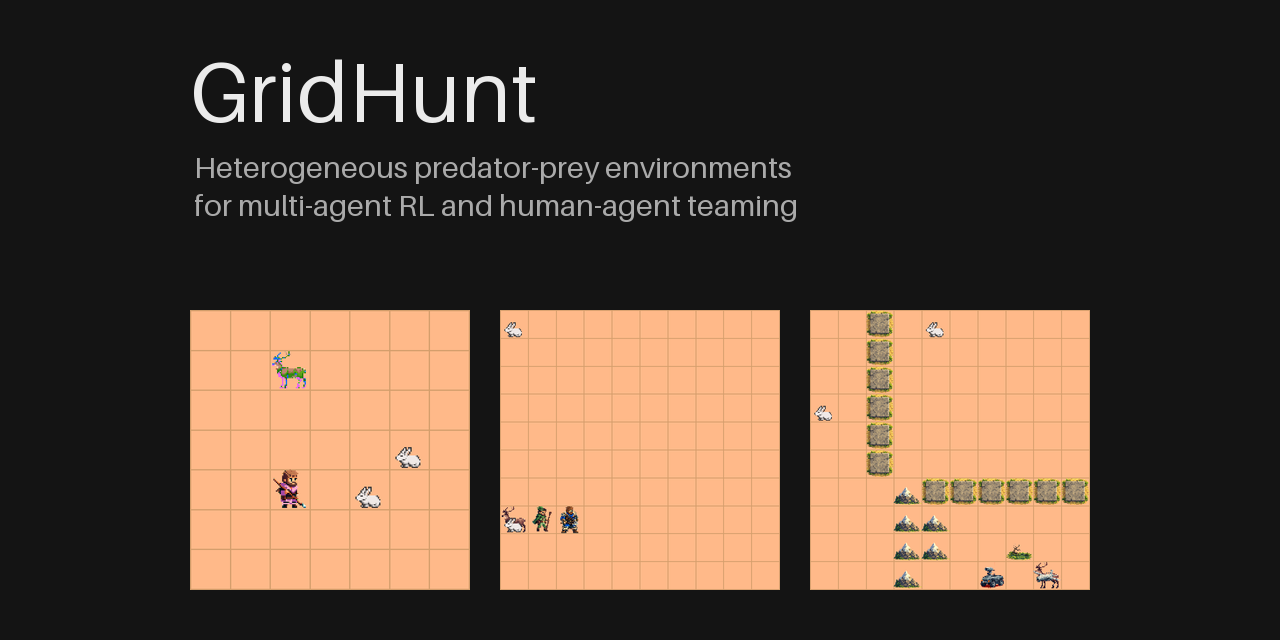
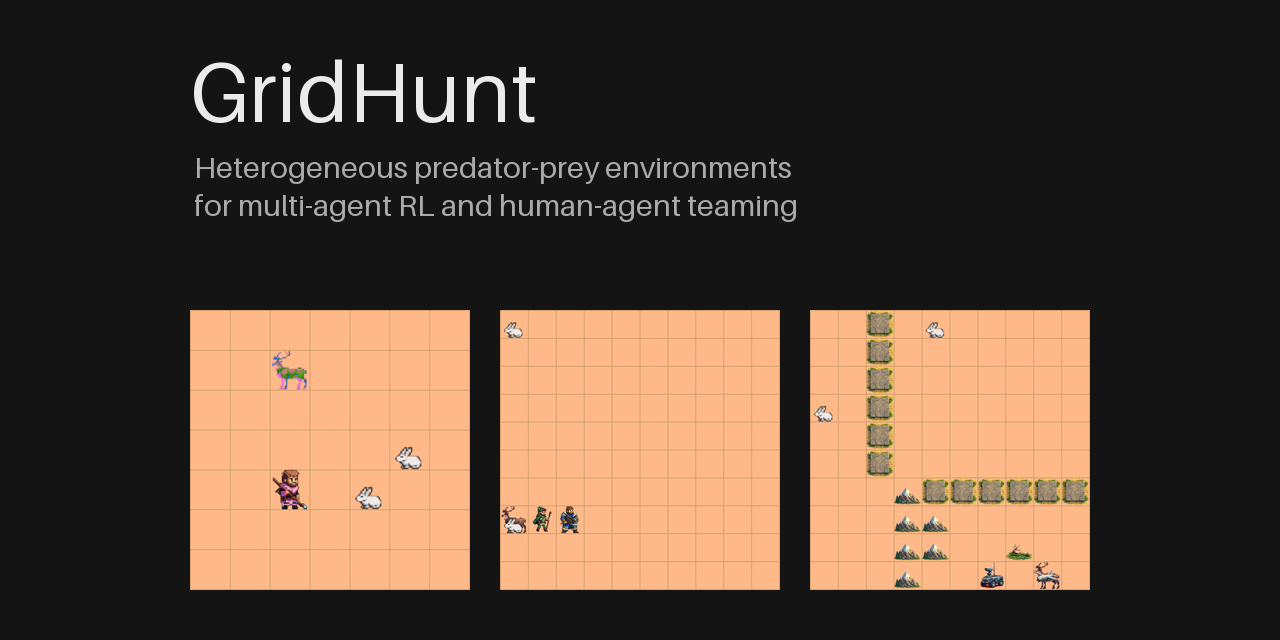
Render boards at a consistent size with even margins and grid lines

diff --git a/src/gridhunt/rendering.py b/src/gridhunt/rendering.py
@@ -36,15 +36,19 @@ class Renderer:
     EDGE_PADDING = 10
     ROW_SPACING = 10
     DROPDOWN_DEFAULT_WIDTH = 100
-    TILE_SIZE = 32
+    TILE_SIZE = 32  # replaced per environment by the cell size that fits BOARD_SIZE
+    BOARD_SIZE = 640  # target board width and height in pixels
+    MIN_TILE_SIZE = 12
+    MARGIN = 16  # space around the board, the same on every side
+    GRID_LINE_WIDTH = 2
     GAMEBOARD_COLOR = (255, 185, 137)
     BACKGROUND_COLOR = (20, 20, 20)
     CLEAR = (0, 0, 0, 0)
     GRID_LINE_COLOR = (200, 150, 100, 200)
     SCREEN_SIZE = (750, 750)
 
-    # Grid rendering
-    GRID_BOUNDARY_BUFFER = 1
+    # Grid rendering: room for the right and bottom border lines
+    GRID_BOUNDARY_BUFFER = GRID_LINE_WIDTH
 
     def __init__(self, env, gui_config: dict | None = None) -> None:
         """Initialize renderer state."""
@@ -82,7 +86,7 @@ class Renderer:
         info_text_lines = max(1, int(self.gui_config.get("info_text_lines", 1)))
 
         layout = {
-            "required_width": self.SCREEN_SIZE[0],
+            "required_width": self._min_width,
             "text_vertical_space": self.TEXT_PADDING
             + self._text_height * info_text_lines
             + self.TEXT_PADDING,
@@ -112,9 +116,7 @@ class Renderer:
                 rect = pygame.Rect(dd_conf["rect"])
                 x_offset = max(x_offset, rect.right + self.EDGE_PADDING)
 
-        layout["required_width"] = max(
-            self.SCREEN_SIZE[0], x_offset + self.EDGE_PADDING
-        )
+        layout["required_width"] = max(self._min_width, x_offset + self.EDGE_PADDING)
 
         # Calculate info bar height
         buttons = self.gui_config.get("buttons", [])
@@ -147,15 +149,17 @@ class Renderer:
         pygame.init()
         os.environ["SDL_VIDEO_WINDOW_POS"] = "0,0"
 
-        # Calculate game surface dimensions on grid
+        # Every board is drawn at one cell size chosen to fill about BOARD_SIZE pixels, so boards,
+        # margins and grid lines look the same whatever the grid size
+        self.TILE_SIZE = max(self.MIN_TILE_SIZE, self.BOARD_SIZE // max(self.env.grid_size))
+        self._scale = 1
         self._game_surface_size = (
             self.env.grid_size[0] * self.TILE_SIZE,
             self.env.grid_size[1] * self.TILE_SIZE,
         )
-
-        # Calculate scale factor to fit screen width
-        scale_x = self.SCREEN_SIZE[0] // self._game_surface_size[0]
-        self._scale = max(1, scale_x)
+        board_width = self._game_surface_size[0] + self.GRID_BOUNDARY_BUFFER
+        board_height = self._game_surface_size[1] + self.GRID_BOUNDARY_BUFFER
+        self._min_width = board_width + 2 * self.MARGIN
 
         # Initialize font and measure text height
         if self.info_bar:
@@ -168,23 +172,14 @@ class Renderer:
         else:
             self._text_height = 0
             self._info_bar_height = 0
-            required_width = self.SCREEN_SIZE[0]
+            required_width = self._min_width
 
-        # Calculate final screen size using the full available space
-        scaled_game_board_height = self._game_surface_size[1] * self._scale
-
-        # Center game board horizontally and vertically (same offset for uniform padding)
-        scaled_game_board_width = self._game_surface_size[0] * self._scale
-        self._board_x_offset = (required_width - scaled_game_board_width) // 2
-        self._board_y_offset = self._board_x_offset
-
-        self._screen_size = (
-            required_width,
-            self._board_y_offset + scaled_game_board_height + self._info_bar_height,
-        )
-
-        # Position info bar immediately after game board
-        self._info_bar_y = self._board_y_offset + scaled_game_board_height
+        # The board is centred horizontally (buttons can make the window wider) with an equal
+        # margin above and below it; the info bar sits under the bottom margin
+        self._board_x_offset = (required_width - board_width) // 2
+        self._board_y_offset = self.MARGIN
+        self._info_bar_y = self.MARGIN + board_height + self.MARGIN
+        self._screen_size = (required_width, self._info_bar_y + self._info_bar_height)
 
         # Create display and clock
         self._screen = pygame.display.set_mode(self._screen_size, pygame.HIDDEN if hidden else 0)
@@ -205,14 +200,15 @@ class Renderer:
         self._grid_layer = pygame.Surface(padded_grid_size).convert_alpha()
         self._grid_layer.fill(self.CLEAR)
 
-        # Dynamic entity layer for prey, predators, and obstacles
+        # Terrain (under the grid lines) and entities, prey and predators (over them)
+        self._terrain_layer = pygame.Surface(self._game_surface_size).convert_alpha()
         self._entity_layer = pygame.Surface(self._game_surface_size).convert_alpha()
         self._entity_layer.fill(self.CLEAR)
 
         # Info bar background
         if self.info_bar:
             self._info_layer = pygame.Surface(
-                (self._game_surface_size[0], self._info_bar_height)
+                (self._screen_size[0], self._info_bar_height)
             ).convert()
             self._info_layer.fill(self.BACKGROUND_COLOR)
 
@@ -337,22 +333,8 @@ class Renderer:
         """
         Draw the scaled game board, centered, and the optional info bar onto the screen surface.
         """
-        # Build complete game board with all layers
-        game_board = self._build_game_board()
-
-        # Scale game board ONLY (info bar stays unscaled)
-        # Might be worth trying smoothscale() instead of scale for larger grids
-        scaled_board = pygame.transform.scale(
-            game_board,
-            (
-                int(self._game_surface_size[0] * self._scale),
-                int(self._game_surface_size[1] * self._scale),
-            ),
-        )
-
-        # Clear screen and draw scaled game board CENTERED horizontally and same offset to top for uniformity
         self._screen.fill(self.BACKGROUND_COLOR)
-        self._screen.blit(scaled_board, (self._board_x_offset, self._board_y_offset))
+        self._screen.blit(self._build_game_board(), (self._board_x_offset, self._board_y_offset))
 
         # Render info bar and UI if enabled
         if self.info_bar:
@@ -414,17 +396,17 @@ class Renderer:
 
     def _build_game_board(self) -> pygame.Surface:
         """
-        Compose the complete game board from background, grid, and entity layers.
-
-        Returns the layered board ready for scaling and display. Grid lines are
-        rendered on a slightly padded surface to accommodate boundary lines.
+        Compose the board from its layers: background, terrain, grid lines, then entities, prey
+        and predators. The board is GRID_LINE_WIDTH pixels larger than the cells so the right and
+        bottom border lines fit.
 
         Returns:
             pygame.Surface: The composed game board with all layers rendered
         """
         self._entity_layer.fill(self.CLEAR)
+        self._terrain_layer.fill(self.CLEAR)
 
-        # Draw terrain (background layer, drawn first)
+        # Terrain goes under the grid lines
         if hasattr(self.env, "terrain") and self.env.terrain:
             for terrain_entity in self.env.terrain.values():
                 sprite = self._get_cached_sprite(terrain_entity.render_sprite)
@@ -432,7 +414,7 @@ class Renderer:
                     terrain_entity.position[0] * self.TILE_SIZE,
                     terrain_entity.position[1] * self.TILE_SIZE,
                 )
-                self._entity_layer.blit(sprite, pos)
+                self._terrain_layer.blit(sprite, pos)
 
         # Draw static obstacles/background entities
         if self.env.entities is not None:
@@ -462,7 +444,7 @@ class Renderer:
             )
             self._entity_layer.blit(sprite, pos)
 
-        # Layer composition: background + grid (with boundary buffer) + entities + vision mask
+        # Layer composition: background, terrain, grid lines, entities, vision mask
         padded_size = (
             self._game_surface_size[0] + self.GRID_BOUNDARY_BUFFER,
             self._game_surface_size[1] + self.GRID_BOUNDARY_BUFFER,
@@ -470,6 +452,7 @@ class Renderer:
         board = pygame.Surface(padded_size).convert()
         board.fill(self.GAMEBOARD_COLOR)
         board.blit(self._game_surface, (0, 0))
+        board.blit(self._terrain_layer, (0, 0))
         board.blit(self._grid_layer, (0, 0))
         board.blit(self._entity_layer, (0, 0))
 
@@ -570,9 +553,7 @@ class Renderer:
                 sprite = self._load_image(path_str)
                 # Ensure sprite fits within a single grid cell
                 if sprite.get_size() != (self.TILE_SIZE, self.TILE_SIZE):
-                    sprite = pygame.transform.scale(
-                        sprite, (self.TILE_SIZE, self.TILE_SIZE)
-                    )
+                    sprite = pygame.transform.smoothscale(sprite, (self.TILE_SIZE, self.TILE_SIZE))
                 self._sprite_cache[path_str] = sprite
             except (FileNotFoundError, pygame.error, OSError) as e:
                 # Fallback: return blank surface instead of crashing
@@ -617,37 +598,15 @@ class Renderer:
         pygame.quit()
 
     def _draw_grid(self) -> None:
-        """
-        Draw grid lines on the static grid layer.
-
-        Grid lines are drawn once during initialization and scaled based on the
-        zoom level to remain visible at all scales. Line width is proportional
-        to the scale factor to maintain visual consistency.
-        """
+        """Draw the grid lines, including the outer border, once on the static grid layer."""
         w, h = self.env.grid_size
-
-        # Scale line width with zoom (thicker at higher zooms, minimum 1px)
-        line_width = max(1, int(self._scale * 0.25))
-
-        # Draw vertical lines
-        for x in range(0, (w + 1) * self.TILE_SIZE, self.TILE_SIZE):
-            pygame.draw.line(
-                self._grid_layer,
-                self.GRID_LINE_COLOR,
-                (x, 0),
-                (x, h * self.TILE_SIZE),
-                line_width,
-            )
-
-        # Draw horizontal lines
-        for y in range(0, (h + 1) * self.TILE_SIZE, self.TILE_SIZE):
-            pygame.draw.line(
-                self._grid_layer,
-                self.GRID_LINE_COLOR,
-                (0, y),
-                (w * self.TILE_SIZE, y),
-                line_width,
-            )
+        width = self.GRID_LINE_WIDTH
+        for x in range(w + 1):
+            self._grid_layer.fill(self.GRID_LINE_COLOR, pygame.Rect(x * self.TILE_SIZE, 0, width,
+                                                                   h * self.TILE_SIZE + width))
+        for y in range(h + 1):
+            self._grid_layer.fill(self.GRID_LINE_COLOR, pygame.Rect(0, y * self.TILE_SIZE,
+                                                                   w * self.TILE_SIZE + width, width))
 
     def _load_image(self, path: str, clean_image: bool = False) -> pygame.Surface:
         """

diff --git a/docs/scripts/animation.py b/docs/scripts/animation.py
@@ -33,6 +33,17 @@ def frames(env_id, steps=48, seed=3, crop=False):
     return [Image.fromarray(image) for image in images]
 
 
+def shared_palette(images, colors=128):
+    """Quantize frames to one palette without dithering: small files and steady colours."""
+    samples = images[:: max(1, len(images) // 4)][:4]
+    width, height = images[0].size
+    sample = Image.new("RGB", (width, height * len(samples)))
+    for row, image in enumerate(samples):
+        sample.paste(image.convert("RGB"), (0, row * height))
+    palette = sample.quantize(colors=colors, method=Image.Quantize.MEDIANCUT)
+    return [image.convert("RGB").quantize(palette=palette, dither=Image.Dither.NONE) for image in images]
+
+
 def gif_bytes(images, duration=180):
     buffer = io.BytesIO()
     images[0].save(buffer, format="GIF", save_all=True, append_images=images[1:], duration=duration, loop=0,
@@ -41,7 +52,7 @@ def gif_bytes(images, duration=180):
 
 
 def scenario_gif(env_id, steps=48, width=360):
-    """An animation of one scenario, scaled to ``width`` pixels."""
+    """An animation of one scenario, scaled smoothly to ``width`` pixels."""
     images = frames(env_id, steps)
-    scaled = [im.resize((width, int(im.height * width / im.width)), Image.NEAREST) for im in images]
-    return gif_bytes(scaled)
+    scaled = [im.resize((width, int(im.height * width / im.width)), Image.LANCZOS) for im in images]
+    return gif_bytes(shared_palette(scaled))

diff --git a/docs/scripts/make_banner.py b/docs/scripts/make_banner.py
@@ -13,7 +13,7 @@ from PIL import Image, ImageDraw, ImageFont
 
 sys.path.insert(0, str(Path(__file__).resolve().parent))
 
-from animation import frames, gif_bytes  # noqa: E402
+from animation import frames, gif_bytes, shared_palette  # noqa: E402
 
 ASSETS = Path(__file__).resolve().parents[1] / "assets"
 BACKGROUND = (20, 20, 20)
@@ -43,12 +43,7 @@ def montage(tile=200, gap=12, label_height=28, steps=40):
             text_width = draw.textlength(title, font=font)
             draw.text((x + (tile - text_width) / 2, gap + tile + 6), title, fill=MUTED, font=font)
         out.append(canvas)
-    # One palette for every frame, without dithering, keeps the file small and the colours steady
-    sample = Image.new("RGB", (width, height * 4))
-    for row, step in enumerate(range(0, steps, max(1, steps // 4))[:4]):
-        sample.paste(out[step], (0, row * height))
-    palette = sample.quantize(colors=128, method=Image.Quantize.MEDIANCUT)
-    return [frame.quantize(palette=palette, dither=Image.Dither.NONE) for frame in out]
+    return shared_palette(out)
 
 
 def social_preview(tile=280, gap=30):

diff --git a/CHANGELOG.md b/CHANGELOG.md
@@ -48,6 +48,8 @@ First public release.
 - The SLURM scripts work on any cluster: its account, log folder and environment set-up live in
   `benchmark/slurm/cluster.env`, and scripts are submitted through `benchmark/slurm/submit.sh`.
 - The benchmark documentation is now `benchmark/README.md`.
+- Rendering draws every board at a cell size that fills about 640 pixels, with the same margin on
+  every side and grid lines of one width, instead of scaling 32-pixel cells by whole numbers.
 - Sprites are stored at 128 × 128 pixels, which shrinks the package from 4 MB to 0.4 MB without
   visibly changing the rendering; an unused sprite was removed.
 - `GridHunt-PIG-v0` is now `GridHunt-PigChase-v0`. Its dynamics are unchanged.
